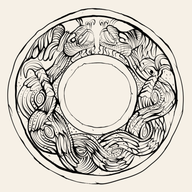
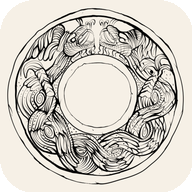
fix: resolver conflict layout.tsx + API_BASE directo en Navbar

diff --git a/app/layout.tsx b/app/layout.tsx
@@ -1,18 +1,18 @@
 "use client";
-import { ensureFaceApiReady } from "./initTF";
-import { useState, useEffect } from "react";
-import { Geist, Geist_Mono, Jockey_One, JetBrains_Mono, Roboto } from "next/font/google";
 import { AnimatePresence } from "framer-motion";
-import dynamic from "next/dynamic";
 import { NextIntlClientProvider } from 'next-intl';
-import "./globals.css";
-import Navbar from "./components/Navbar";
-import Footer from "./components/Footer";
+import dynamic from "next/dynamic";
+import { Geist, Geist_Mono, JetBrains_Mono, Jockey_One, Roboto } from "next/font/google";
+import { useEffect, useState } from "react";
 import AuthModal from "./components/AuthModal";
 import BecomeGuideFlow from "./components/BecomeGuideFlow";
+import Footer from "./components/Footer";
 import InstallPWAPrompt from "./components/InstallPWAPrompt";
 import LocationPermissionModal from "./components/LocationPermissionModal";
+import Navbar from "./components/Navbar";
 import { PWAInstallProvider } from "./context/PWAInstallContext";
+import "./globals.css";
+import { ensureFaceApiReady } from "./initTF";
 const PublishBusinessFlow = dynamic(() => import("./components/PublishBusinessFlow"), { ssr: false });
 
 declare global {

diff --git a/app/components/AuthModal.tsx b/app/components/AuthModal.tsx
@@ -1,10 +1,10 @@
 "use client";
+import { getBackendOrigin } from "@/lib/backendUrl";
 import { motion } from "framer-motion";
+import { useTranslations } from "next-intl";
 import Link from "next/link";
 import { useEffect, useState } from "react";
-import { useTranslations } from "next-intl";
 import { FiChevronDown, FiEye, FiEyeOff, FiLock, FiMail, FiX } from "react-icons/fi";
-import { getBackendOrigin } from "@/lib/backendUrl";
 
 const API_BASE = getBackendOrigin();
 const BACKEND_URL = `${API_BASE}/api/auth`;

diff --git a/app/components/Navbar.tsx b/app/components/Navbar.tsx
@@ -19,7 +19,7 @@ import { usePWAInstall } from "@/app/context/PWAInstallContext";
 import { useMessageNotifications } from "@/lib/useMessageNotifications";
 import { fetchWithAuth } from "@/lib/fetchWithAuth";
 
-const API_BASE = "/api";
+const API_BASE = (process.env.NEXT_PUBLIC_BACKEND_URL || 'https://api.pitzbol.me:8443') + '/api';
 const PHOTO_HYDRATE_COOLDOWN_KEY = "pitzbol_profile_photo_hydrate_cooldown_until";
 const BUSINESS_REQUESTS_CACHE_KEY_PREFIX = "pitzbol_has_business_requests_";
 

diff --git a/app/politica-privacidad/page.tsx b/app/politica-privacidad/page.tsx
@@ -1,6 +1,6 @@
 "use client";
 import { useTranslations } from "next-intl";
-import { FiShield, FiEye, FiLock, FiDatabase, FiShare2, FiAlertCircle, FiMail } from "react-icons/fi";
+import { FiAlertCircle, FiDatabase, FiEye, FiLock, FiMail, FiShare2, FiShield } from "react-icons/fi";
 import styles from "./politica-privacidad.module.css";
 
 export default function PoliticaPrivacidad() {

diff --git a/app/components/PlaceRating.tsx b/app/components/PlaceRating.tsx
@@ -1,6 +1,6 @@
 "use client";
-import { useState, useEffect } from "react";
 import { motion } from "framer-motion";
+import { useEffect, useState } from "react";
 import { FiStar } from "react-icons/fi";
 
 const API_BASE = "/api";
